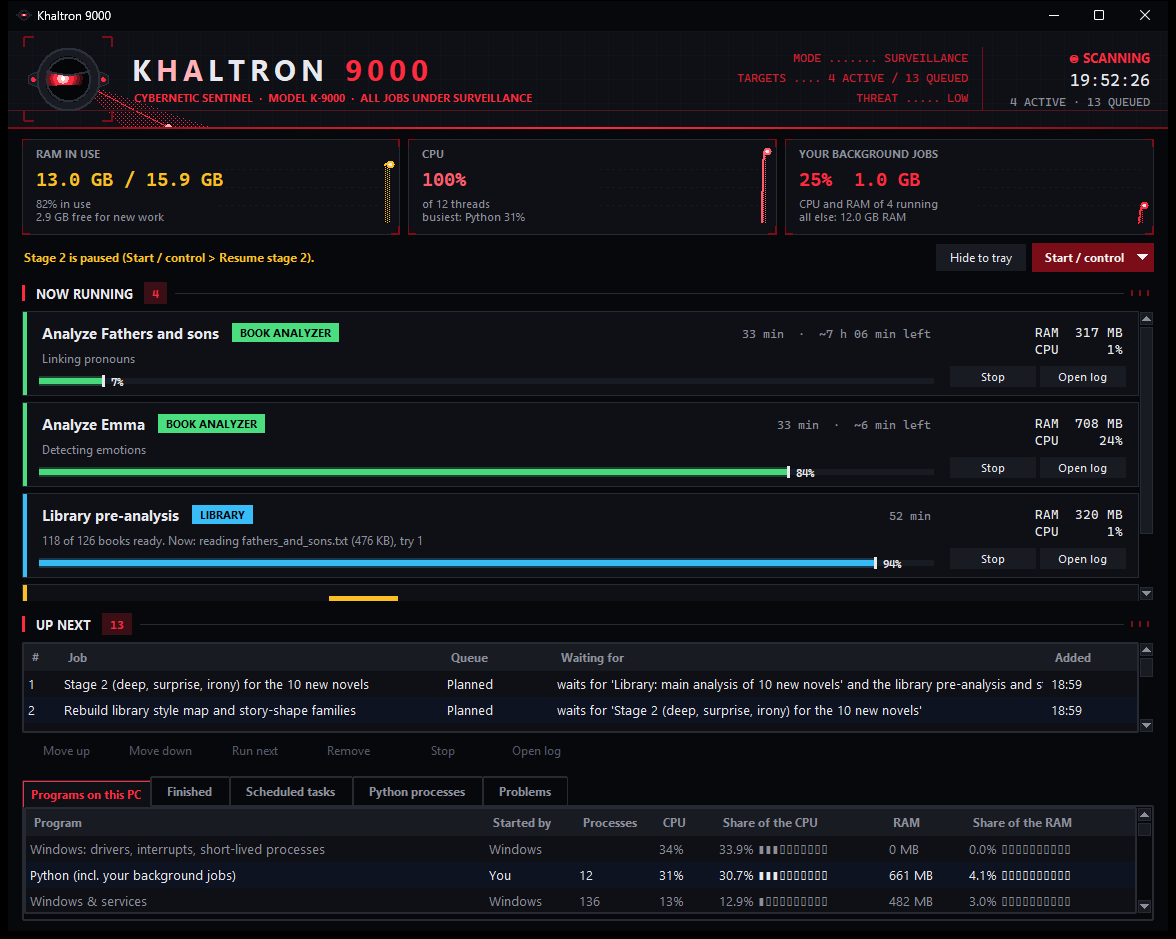
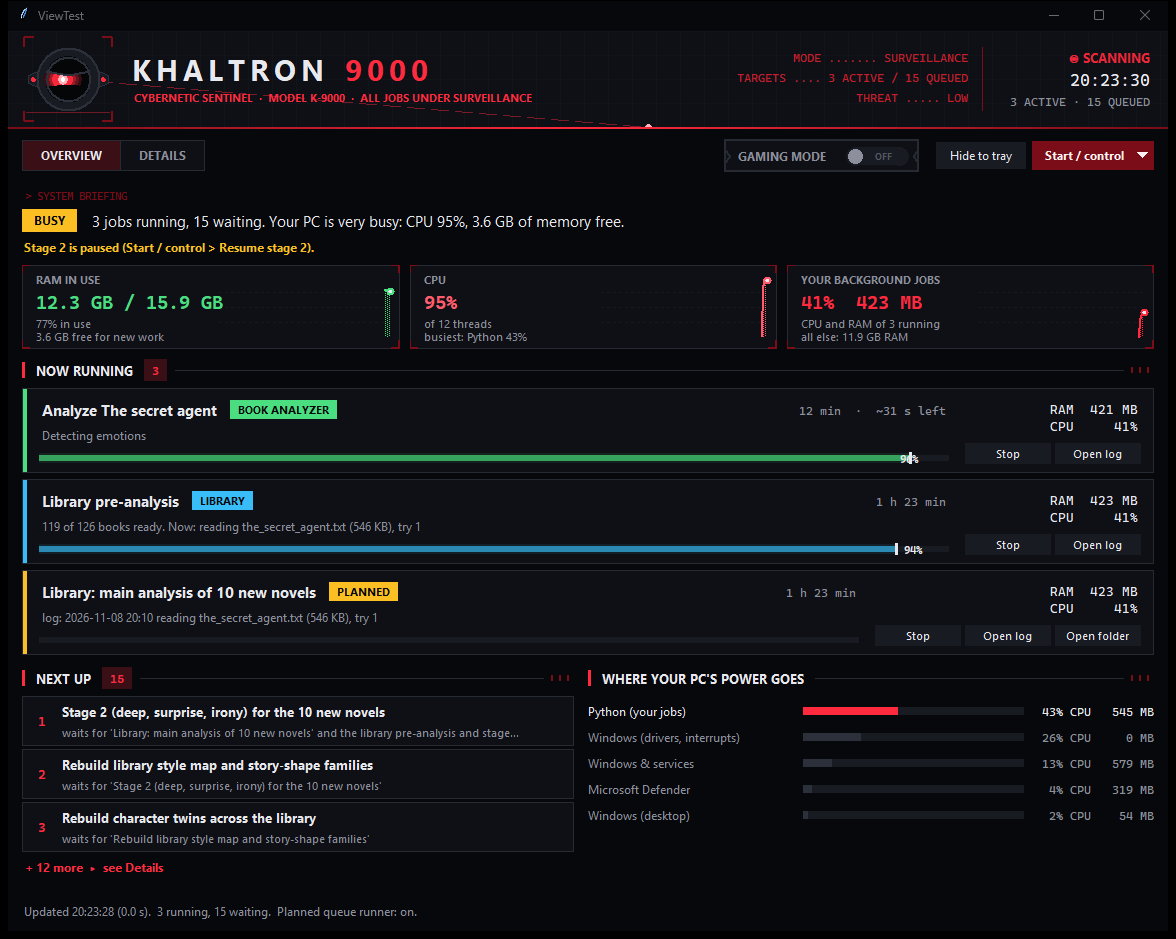
A simpler Overview, a Details view with every table, a sharper HUD
The owner found the window overwhelming. Overview (the default) shows the
whole picture at a glance: a one-sentence briefing with a status chip (CALM,
WORKING, BUSY, LOW MEMORY, GAMING), the three cards, the running jobs, the
next three jobs in plain words (+N more opens Details) and the five programs
using the most CPU as bars. Details keeps every table as it was. A segmented
OVERVIEW / DETAILS switch in the toolbar.

Polish: the status line always has its room, the laser line is dashed and
dim (it read as crossed-out text), no counter on the power section, tighter
spacing. README screenshot and text updated.

Claude-Session: https://claude.ai/code/session_01BnkdUubDnB4uZAAmmydb6H

diff --git a/monitor/ui.py b/monitor/ui.py
@@ -9,7 +9,7 @@ import tkinter as tk
 from tkinter import filedialog, messagebox, ttk
 
 from . import actions, alerts, gaming, planned, runner, theme
-from .hud import GamingSwitch, RunningPanel, Section, StatCard
+from .hud import Briefing, GamingSwitch, NextList, PowerBars, RunningPanel, Section, StatCard, ViewSwitch
 from .sentinel import SentinelHeader
 from .collect import State, collect
 from .config import BOOK, CONFIG
@@ -26,6 +26,26 @@ def bar(progress: float | None, width: int = 10) -> str:
     progress = max(0.0, min(1.0, progress))
     full = round(progress * width)
     return "▰" * full + "▱" * (width - full) + f" {progress * 100:.0f}%"
+
+
+def briefing(state: State, playing: bool) -> tuple[str, str, str]:
+    """(chip, colour, sentence): the whole picture in one plain sentence."""
+    h = state.health
+    running, waiting = len(state.running), len(state.waiting)
+    jobs = (f"{running} job{'s' if running != 1 else ''} running" if running else "No jobs running") + \
+        (f", {waiting} waiting." if waiting else ", nothing waiting.")
+    if playing:
+        return "GAMING", theme.LASER, "Gaming mode is on: background jobs are frozen so your game gets the PC."
+    if not h:
+        return "SCANNING", theme.MUTED, jobs
+    pc = f"CPU {h.cpu:.0f}%, {gb(h.free_mb)} of memory free."
+    if h.free_mb < CONFIG["low_memory_mb"]:
+        return "LOW MEMORY", theme.RED, f"{jobs} Memory is running out: {pc}"
+    if h.cpu > 85:
+        return "BUSY", theme.AMBER, f"{jobs} Your PC is very busy: {pc}"
+    if running:
+        return "WORKING", theme.GREEN, f"{jobs} Your PC has room to spare: {pc}"
+    return "CALM", theme.GREEN, f"{jobs} Your PC is calm: {pc}"
 
 
 def share_bar(share: float, width: int = 10) -> str:
@@ -163,16 +183,11 @@ class App:
         outer = ttk.Frame(self.root, padding=(14, 10, 14, 10))
         outer.pack(fill="both", expand=True)
 
-        cards = ttk.Frame(outer)
-        cards.pack(fill="x")
-        self.ram_card = StatCard(cards, "RAM in use")
-        self.cpu_card = StatCard(cards, "CPU")
-        self.jobs_card = StatCard(cards, "Your background jobs")
-        for column, card in enumerate((self.ram_card, self.cpu_card, self.jobs_card)):
-            card.grid(row=0, column=column, sticky="we", padx=(0 if column == 0 else 8, 0))
-            cards.columnconfigure(column, weight=1, uniform="cards")
+        # the toolbar: which view (left); gaming mode, hide, the control menu (right)
         top = ttk.Frame(outer)
-        top.pack(fill="x", pady=(8, 0))
+        top.pack(fill="x")
+        self.view_switch = ViewSwitch(top, ["Overview", "Details"], self.show_view)
+        self.view_switch.pack(side="left")
         start = ttk.Menubutton(top, text="Start / control")
         menu = tk.Menu(start, tearoff=False)
         menu.add_command(label="Add a job to the planned queue...", command=self.add_dialog)
@@ -201,38 +216,73 @@ class App:
         self.gaming_switch = GamingSwitch(top, self.toggle_gaming)
         self.gaming_switch.pack(side="right", padx=(0, 10))
 
-        self.flags = ttk.Label(top, text="", style="Flag.TLabel")
-        self.flags.pack(side="left", fill="x", expand=True)
+        # the one-sentence briefing, and warnings under it
+        self.briefing = Briefing(outer)
+        self.briefing.pack(fill="x", pady=(12, 0))
+        self.flags = ttk.Label(outer, text="", style="Flag.TLabel")
+        self.flags.pack(fill="x", pady=(4, 0))
 
-        # running jobs above the resizable panes: the cards take exactly the room they need
-        self.running_title = Section(outer, "Now running")
+        # the status line first, at the bottom: packed after the views it got no room left
+        self.status = ttk.Label(outer, text="Starting...", style="Small.TLabel")
+        self.status.pack(side="bottom", fill="x", pady=(6, 0))
+        views = ttk.Frame(outer)
+        views.pack(fill="both", expand=True, pady=(8, 0))
+
+        # OVERVIEW: what matters at a glance
+        overview = self.overview = ttk.Frame(views)
+        cards = ttk.Frame(overview)
+        cards.pack(fill="x")
+        self.ram_card = StatCard(cards, "RAM in use")
+        self.cpu_card = StatCard(cards, "CPU")
+        self.jobs_card = StatCard(cards, "Your background jobs")
+        for column, card in enumerate((self.ram_card, self.cpu_card, self.jobs_card)):
+            card.grid(row=0, column=column, sticky="we", padx=(0 if column == 0 else 10, 0))
+            cards.columnconfigure(column, weight=1, uniform="cards")
+        self.running_title = Section(overview, "Now running")
         self.running_title.pack(fill="x", pady=(10, 6))
-        self.running = RunningPanel(outer, self)
+        self.running = RunningPanel(overview, self)
         self.running.pack(fill="x")
+        bottom = ttk.Frame(overview)
+        bottom.pack(fill="both", expand=True, pady=(6, 0))
+        left, right = ttk.Frame(bottom), ttk.Frame(bottom)
+        left.grid(row=0, column=0, sticky="nsew", padx=(0, 14))
+        right.grid(row=0, column=1, sticky="nsew")
+        bottom.columnconfigure(0, weight=1, uniform="bottom")
+        bottom.columnconfigure(1, weight=1, uniform="bottom")
+        self.next_title = Section(left, "Next up")
+        self.next_title.pack(fill="x", pady=(0, 6))
+        self.next_list = NextList(left, lambda: self.show_view("Details"))
+        self.next_list.pack(fill="x")
+        self.power_title = Section(right, "Where your PC's power goes", badge=False)
+        self.power_title.pack(fill="x", pady=(0, 6))
+        self.power = PowerBars(right)
+        self.power.pack(fill="x")
 
-        panes = ttk.PanedWindow(outer, orient="vertical")
-        panes.pack(fill="both", expand=True, pady=(4, 0))
+        # DETAILS: every table, as before
+        details = self.details = ttk.Frame(views)
+        panes = ttk.PanedWindow(details, orient="vertical")
+        panes.pack(fill="both", expand=True)
 
         box = ttk.Frame(panes)
         self.waiting_title = Section(box, "Up next")
-        self.waiting_title.pack(fill="x", pady=(8, 6))
+        self.waiting_title.pack(fill="x", pady=(0, 6))
         self.waiting = Table(box, self, [("pos", "#", 36), ("name", "Job", 270), ("source", "Queue", 110),
                                          ("step", "Waiting for", 380), ("added", "Added", 90)],
-                             ["up", "down", "runnow", "remove", "stop", "log"], height=5)
+                             ["up", "down", "runnow", "remove", "stop", "log"], height=6)
         self.waiting.pack(fill="both", expand=True)
         panes.add(box, weight=2)
 
         tabs = ttk.Notebook(panes)
         self.apps = Table(tabs, self, [("name", "Program", 300), ("who", "Started by", 90), ("count", "Processes", 80),
                                        ("cpu", "CPU", 60), ("share", "Share of the CPU", 170), ("memory", "RAM", 80),
-                                       ("rshare", "Share of the RAM", 170)], [], height=6)
+                                       ("rshare", "Share of the RAM", 170)], [], height=8)
         self.finished = Table(tabs, self, [("name", "Job", 270), ("source", "From", 110), ("state", "Result", 80),
-                                           ("step", "Details", 380), ("when", "Ended", 90)], ["log"], height=6)
+                                           ("step", "Details", 380), ("when", "Ended", 90)], ["log"], height=8)
         self.tasks = Table(tabs, self, [("name", "Task", 250), ("state", "State", 80), ("step", "Status", 330),
-                                        ("last", "Last run", 100), ("next", "Next run", 100)], ["runtask"], height=6)
+                                        ("last", "Last run", 100), ("next", "Next run", 100)], ["runtask"], height=8)
         self.procs = Table(tabs, self, [("name", "Process", 250), ("pid", "PID", 70), ("memory", "Memory", 80),
                                         ("cpu", "CPU", 60), ("time", "Running for", 90), ("step", "Command", 380)],
-                           ["stop"], height=6)
+                           ["stop"], height=8)
         self.problems = tk.Text(tabs, height=6, wrap="word", font=(theme.MONO, 9), relief="flat", bg=theme.PANEL,
                                 fg=theme.MUTED, insertbackground=theme.LASER, padx=10, pady=8, highlightthickness=0)
         tabs.add(self.apps, text="Programs on this PC")
@@ -241,9 +291,15 @@ class App:
         tabs.add(self.procs, text="Python processes")
         tabs.add(self.problems, text="Problems")
         panes.add(tabs, weight=3)
+        self.show_view("Overview")
 
-        self.status = ttk.Label(outer, text="Starting...", style="Small.TLabel")
-        self.status.pack(fill="x", pady=(6, 0))
+
+    def show_view(self, view: str):
+        """Overview (simple, the default) or Details (every table)."""
+        self.view_switch.select(view)
+        self.overview.pack_forget()
+        self.details.pack_forget()
+        (self.overview if view == "Overview" else self.details).pack(fill="both", expand=True)
 
     def brand(self):
         """The header: Khaltron as a sentinel drone (sentinel.py), and a red laser line under it."""
@@ -351,6 +407,10 @@ class App:
         self.flags.configure(text="   ".join(flags))
 
         self.running.show(state.running, now)
+        self.next_list.show(state.waiting)
+        self.next_title.count(len(state.waiting))
+        self.power.show(state.programs)
+        self.briefing.show(*briefing(state, playing))
         self.running_title.count(len(state.running))
         self.waiting_title.count(len(state.waiting))
         total_mb = h.total_mb if h else 1

diff --git a/monitor/hud.py b/monitor/hud.py
@@ -29,12 +29,15 @@ def gb(mb):
 class Section(tk.Frame):
     """'▍NOW RUNNING  [3] ──────────' : a HUD heading with a count badge and a rule line."""
 
-    def __init__(self, parent, title: str):
+    def __init__(self, parent, title: str, badge: bool = True):
         super().__init__(parent, bg=theme.BG)
         tk.Frame(self, bg=theme.LASER, width=3, height=16).pack(side="left", padx=(0, 8))
         tk.Label(self, text=title.upper(), font=(theme.FONT, 10, "bold"), fg=theme.TEXT, bg=theme.BG).pack(side="left")
         self.badge = tk.Label(self, text="0", font=(theme.MONO, 9, "bold"), fg=theme.LASER, bg=theme.SELECT, padx=6)
-        self.badge.pack(side="left", padx=8)
+        if badge:
+            self.badge.pack(side="left", padx=8)
+        else:
+            tk.Frame(self, width=8, bg=theme.BG).pack(side="left")
         self.rule = tk.Canvas(self, height=10, bg=theme.BG, highlightthickness=0)
         self.rule.pack(side="left", fill="x", expand=True)
         self.rule.bind("<Configure>", self._draw_rule)
@@ -56,7 +59,7 @@ class StatCard(tk.Canvas):
     """A HUD panel: a small label, a big number, a line under it, and a live graph of the last 3 minutes."""
 
     def __init__(self, parent, label: str):
-        super().__init__(parent, height=96, bg=theme.PANEL, highlightthickness=0)
+        super().__init__(parent, height=84, bg=theme.PANEL, highlightthickness=0)
         self.label = label
         self.history: deque[float] = deque(maxlen=HISTORY)
         self.value, self.sub, self.colour, self.share = "-", "", theme.TEXT, 0.0
@@ -96,8 +99,8 @@ class StatCard(tk.Canvas):
         # the words
         self.create_text(14, 14, text=self.label.upper(), anchor="w", font=(theme.FONT, 8, "bold"), fill=theme.MUTED)
         size = 17 if w * 0.5 > 230 else 14  # a narrow window: a smaller number, so it never runs into the graph
-        self.create_text(14, 38, text=self.value, anchor="w", font=(theme.MONO, size, "bold"), fill=self.colour)
-        self.create_text(14, 58, text=self.sub, anchor="nw", font=(theme.FONT, 8), fill=theme.MUTED)
+        self.create_text(14, 35, text=self.value, anchor="w", font=(theme.MONO, size, "bold"), fill=self.colour)
+        self.create_text(14, 52, text=self.sub, anchor="nw", font=(theme.FONT, 8), fill=theme.MUTED)
 
 
 # --- running-job cards ----------------------------------------------------------------------------------------------
@@ -354,3 +357,133 @@ class GamingSwitch(tk.Canvas):
             self.after(80 if self.on or self.busy else 400, self.tick)
         except tk.TclError:
             pass
+
+
+# --- the simple overview ------------------------------------------------------------------------------------------
+class ViewSwitch(tk.Frame):
+    """[ OVERVIEW | DETAILS ]: two tabs drawn as one segmented control; the chosen one is lit."""
+
+    def __init__(self, parent, views: list[str], on_change):
+        super().__init__(parent, bg=theme.LINE, padx=1, pady=1)
+        self.on_change, self.labels, self.current = on_change, {}, None
+        for view in views:
+            label = tk.Label(self, text=view.upper(), font=(theme.FONT, 9, "bold"), padx=16, pady=5, cursor="hand2")
+            label.pack(side="left", padx=(0 if not self.labels else 1, 0))
+            label.bind("<Button-1>", lambda e, v=view: self.on_change(v))
+            self.labels[view] = label
+        self.select(views[0])
+
+    def select(self, view: str):
+        self.current = view
+        for name, label in self.labels.items():
+            on = name == view
+            label.configure(bg=theme.SELECT if on else theme.PANEL, fg=theme.TEXT if on else theme.MUTED)
+
+
+class Briefing(tk.Frame):
+    """The one-sentence summary at the top: a status chip (CALM, WORKING, BUSY, LOW MEMORY, GAMING) and what is
+    going on in plain words, with a machine-style prompt above it."""
+
+    def __init__(self, parent):
+        super().__init__(parent, bg=theme.BG)
+        tk.Label(self, text="> SYSTEM BRIEFING", font=(theme.MONO, 8), fg=theme.LASER_DARK, bg=theme.BG).pack(anchor="w")
+        row = tk.Frame(self, bg=theme.BG)
+        row.pack(fill="x", pady=(2, 0))
+        self.chip = tk.Label(row, font=(theme.FONT, 9, "bold"), padx=10, pady=2)
+        self.chip.pack(side="left")
+        self.sentence = tk.Label(row, font=(theme.FONT, 11), fg=theme.TEXT, bg=theme.BG, anchor="w", justify="left")
+        self.sentence.pack(side="left", padx=12, fill="x", expand=True)
+        self.shown = None
+
+    def show(self, chip: str, colour: str, sentence: str):
+        if (chip, colour, sentence) == self.shown:
+            return
+        self.shown = (chip, colour, sentence)
+        self.chip.configure(text=chip, bg=colour, fg=theme.BG)
+        self.sentence.configure(text=sentence)
+        self.sentence.configure(wraplength=max(300, self.winfo_width() - 160))
+
+
+class NextList(tk.Frame):
+    """The next few waiting jobs, in plain words; '+N more' opens the Details view."""
+
+    SHOWN = 3
+
+    def __init__(self, parent, on_more):
+        super().__init__(parent, bg=theme.BG)
+        self.on_more, self.shown = on_more, None
+        self.rows = tk.Frame(self, bg=theme.BG)
+        self.rows.pack(fill="x")
+
+    def show(self, jobs: list[Job]):
+        key = tuple((j.id, j.name, j.step) for j in jobs[:self.SHOWN]) + (len(jobs),)
+        if key == self.shown:
+            return
+        self.shown = key
+        for child in self.rows.winfo_children():
+            child.destroy()
+        if not jobs:
+            tk.Label(self.rows, text="Nothing waiting.", font=(theme.FONT, 10), fg=theme.DIM, bg=theme.BG,
+                     anchor="w").pack(fill="x", pady=4)
+            return
+        for number, job in enumerate(jobs[:self.SHOWN], 1):
+            row = tk.Frame(self.rows, bg=theme.PANEL, highlightthickness=1, highlightbackground=theme.LINE)
+            row.pack(fill="x", pady=(0, 3))
+            tk.Label(row, text=str(number), font=(theme.MONO, 10, "bold"), fg=theme.LASER, bg=theme.PANEL,
+                     width=3).pack(side="left", padx=(4, 2), pady=4)
+            words = tk.Frame(row, bg=theme.PANEL)
+            words.pack(side="left", fill="x", expand=True, pady=3)
+            tk.Label(words, text=job.name, font=(theme.FONT, 10, "bold"), fg=theme.TEXT, bg=theme.PANEL,
+                     anchor="w").pack(fill="x")
+            step = " ".join(str(job.step).split())
+            tk.Label(words, text=step[:90] + ("..." if len(step) > 90 else ""), font=(theme.FONT, 8),
+                     fg=theme.MUTED, bg=theme.PANEL, anchor="w").pack(fill="x")
+        more = len(jobs) - self.SHOWN
+        if more > 0:
+            link = tk.Label(self.rows, text=f"+ {more} more  ▸  see Details", font=(theme.FONT, 9, "bold"),
+                            fg=theme.LASER, bg=theme.BG, cursor="hand2", anchor="w")
+            link.pack(fill="x", pady=(2, 0))
+            link.bind("<Button-1>", lambda e: self.on_more())
+
+
+class PowerBars(tk.Canvas):
+    """Where the PC's power goes: the top programs as simple bars of their share of the CPU, with their RAM."""
+
+    ROWS, ROW_H = 5, 26
+    SHORT = {"Python (incl. your background jobs)": "Python (your jobs)",
+             "Windows: drivers, interrupts, short-lived processes": "Windows (drivers, interrupts)",
+             "Windows: kernel, drivers, shared and cache memory": "Windows (kernel memory)"}
+
+    def __init__(self, parent):
+        super().__init__(parent, height=self.ROWS * self.ROW_H + 4, bg=theme.BG, highlightthickness=0)
+        self.programs = []
+        self.bind("<Configure>", lambda e: self.redraw())
+
+    def show(self, programs):
+        top = sorted(programs, key=lambda p: -p.cpu)[:self.ROWS]
+        key = [(p.name, round(p.cpu), round(p.memory_mb, -1)) for p in top]
+        if key == getattr(self, "shown", None):
+            return
+        self.shown, self.programs = key, top
+        self.redraw()
+
+    def redraw(self):
+        self.delete("all")
+        w = self.winfo_width()
+        if w < 50:
+            return
+        label_w, value_w = min(230, w * 0.38), 130
+        x0, x1 = label_w, max(label_w + 40, w - value_w)
+        for i, program in enumerate(self.programs):
+            y = i * self.ROW_H + self.ROW_H / 2 + 2
+            name = self.SHORT.get(program.name, program.name)
+            yours = program.yours and not name.startswith("Windows")
+            self.create_text(0, y, text=name[:32], anchor="w", font=(theme.FONT, 9),
+                             fill=theme.TEXT if yours else theme.MUTED)
+            self.create_rectangle(x0, y - 4, x1, y + 4, fill=theme.RAISED, width=0)
+            share = max(0.0, min(1.0, program.cpu / 100))
+            colour = theme.LASER if yours else theme.METAL
+            if share > 0:
+                self.create_rectangle(x0, y - 4, x0 + max(2, (x1 - x0) * share), y + 4, fill=colour, width=0)
+            self.create_text(w, y, text=f"{program.cpu:4.0f}% CPU  {gb(program.memory_mb):>7}", anchor="e",
+                             font=(theme.MONO, 9), fill=theme.TEXT if yours else theme.MUTED)

diff --git a/monitor/sentinel.py b/monitor/sentinel.py
@@ -56,7 +56,7 @@ class SentinelHeader(tk.Canvas):
         self.grid_image = ImageTk.PhotoImage(grid)
         self.create_image(0, 0, image=self.grid_image, anchor="nw")
         # the laser line (below the text, so the name stays readable) and the dot where it lands
-        self.ray = self.create_line(0, 0, 0, 0, fill=theme.LASER, width=1)
+        self.ray = self.create_line(0, 0, 0, 0, fill=theme.mix(theme.PANEL, theme.LASER, 0.45), width=1, dash=(6, 3))
         self.dot = self.create_oval(0, 0, 0, 0, fill=theme.LASER_HOT, outline="")
         # the scan line rolls inside the drone's target frame only (full width, it repainted the whole header)
         self.scanline = self.create_line(EYE_X - 44, 0, EYE_X + 44, 0, fill=theme.mix(theme.PANEL, theme.LASER, 0.4))

diff --git a/README.md b/README.md
@@ -15,10 +15,14 @@ It also gives you a simple **job queue** (`jobq`): line jobs up and they run one
 waits for is done. So two heavy jobs never fight over your memory, and an AI assistant or a script can queue work you
 can still see and control.
 
-![Khaltron watching book analyses, with more jobs queued](assets/screenshot.png)
+![Khaltron 9000's Overview: a one-line briefing, RAM / CPU / jobs cards, the running jobs, what is next, and where the PC's power goes](assets/screenshot.png)
 
 ## Features
 
+- **Two views.** *Overview* (the default) is the whole picture at a glance: a one-sentence briefing with a status
+  chip (CALM, WORKING, BUSY, LOW MEMORY, GAMING), the RAM / CPU / jobs cards, the running jobs, the next three
+  jobs, and the five programs using the most CPU. *Details* has every table: the full queue with its buttons,
+  every program on the PC, finished jobs, scheduled tasks, Python processes and problems.
 - **HUD cards** for RAM, CPU and your jobs, each with a live graph of the last 3 minutes; running jobs as cards with
   glowing progress bars, their RAM and CPU, and their own buttons.
 - **Programs on this PC**: everything running, grouped by program (Chrome's 30 processes are one row). It reads every
@@ -32,8 +36,11 @@ can still see and control.
 - **Protected processes**: things that must never be stopped (by default: a voice server, a website, Khaltron itself)
   have no Stop button, and are checked again right before any stop.
 - **Notifications**: a Windows pop-up when a job starts, finishes or fails, and when free memory runs low.
-- **Gaming mode**: one click (or Ctrl+Alt+G) freezes every background job so a game gets the CPU and memory, and
-  puts everything back when you switch it off.
+- **Gaming mode**: one click on the GAMING MODE switch (or Ctrl+Alt+G) freezes every background job, any other
+  heavy Python script of yours and safe background apps (OneDrive by default) so a game gets the CPU and memory,
+  and puts everything back when you switch it off. A pop-up says what was frozen and how much memory it freed.
+- **Light on your PC**: one Windows call per refresh reads every process (~55 ms), and the animations slow down
+  when another window has the focus and stop in the tray. The window itself uses about 1% of the CPU.
 - **Tray icon**: closing the window hides it next to the clock. It can start with Windows.
 
 ## Requirements
@@ -120,7 +127,7 @@ Processes that must never be stopped are listed in `KNOWN` in `monitor\sources\p
 | `monitor.pyw` | starts the window and the tray icon; a second launch just shows the first window |
 | `monitor\ui.py` | the window (tkinter): tables, buttons, confirmations |
 | `monitor\sentinel.py` | the animated header: the drone's scanning red eye, its laser, the HUD readout |
-| `monitor\hud.py` | the stat cards with live graphs, the running-job cards, the section headers |
+| `monitor\hud.py` | the stat cards with live graphs, the job cards, the gaming switch, the overview parts |
 | `monitor\theme.py` | every colour and font, the logo, the dark title bar |
 | `monitor\collect.py` | one refresh: asks every reader and adds up what the jobs use |
 | `monitor\sources\` | the readers (jobs, processes, every program on the PC, PC health, scheduled tasks) |
